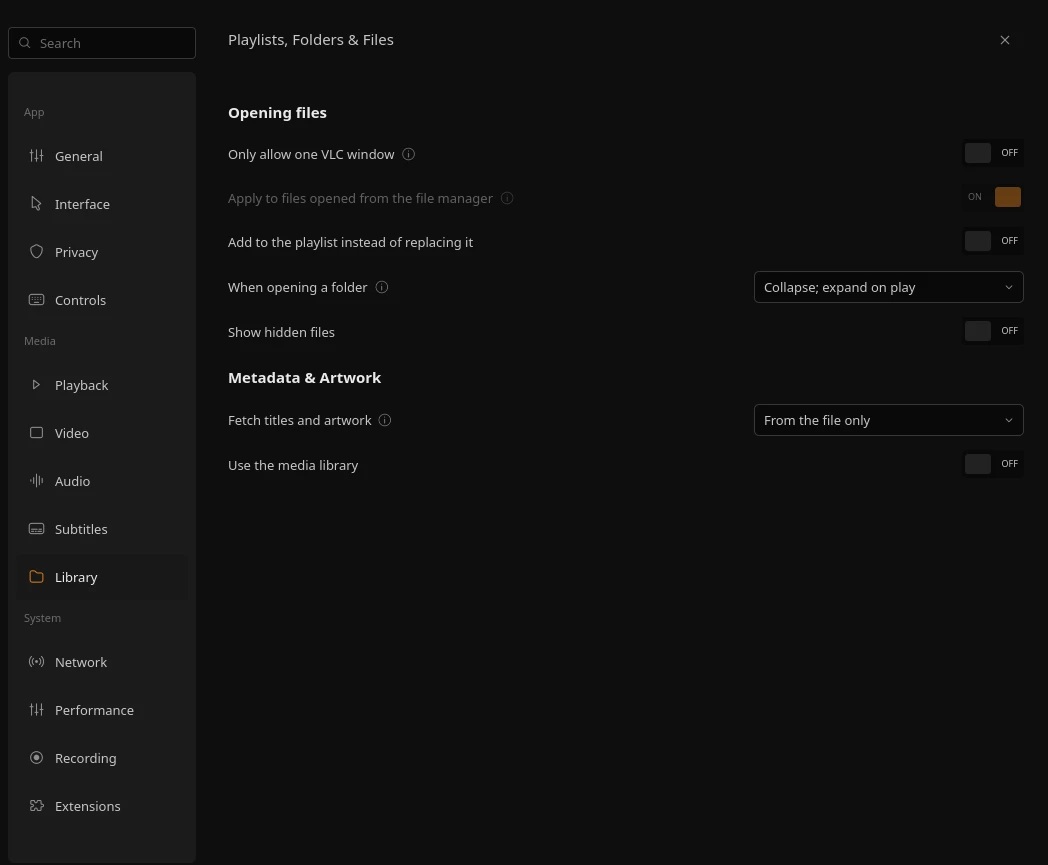
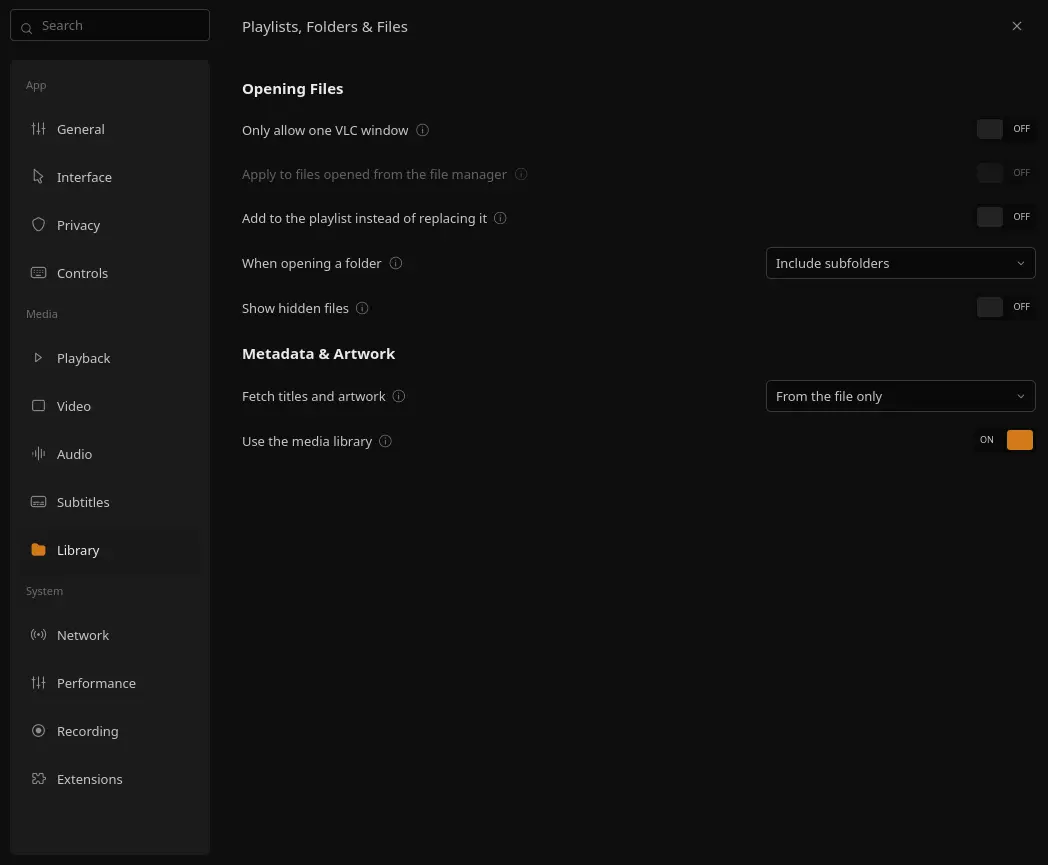
fix: match library preferences to Figma

diff --git a/qml/SettingsDialog.qml b/qml/SettingsDialog.qml
@@ -2021,7 +2021,7 @@ Modal {
                 // ------------------------------------------------ Library
                 Page_ {
                     id_: "library"
-                    SectionTitle { text: "Opening files" }
+                    SectionTitle { text: "Opening Files" }
                     VlcOption { id: libraryOneInstanceOption; option: "one-instance"; label: "Only allow one VLC window"; info: "Open files in the existing VLC window." }
                     VlcOption {
                         option: "one-instance-when-started-from-file"
@@ -2035,7 +2035,7 @@ Modal {
                         info: "Controls how deeply VLC pre-parses items in subfolders. Neo's folder browser and library index still scan recursively."
                         choices: [{ label: "No subfolders", value: "none" },
                                   { label: "Collapse; expand on play", value: "collapse" },
-                                  { label: "Expand all subfolders", value: "expand" }]
+                                  { label: "Include subfolders", value: "expand" }]
                     }
                     VlcOption {
                         option: "show-hiddenfiles"; label: "Show hidden files"

diff --git a/docs/figma-parity.md b/docs/figma-parity.md
@@ -76,7 +76,7 @@ The video canvas background uses Figma charcoal `#2C2B29` in both themes. Video 
 | **Settings - audio** — `3073:15879`, `3180:17398` | Audio output, volume, loudness, language, replay gain and effects. | `SettingsDialog.qml` page `audio`, `SidePanel.qml`, `VlcOption.qml`, `NVerticalSlider.qml`. The page maps enable-audio, output module/device, speaker mode, preferred language, pitch preservation, ReplayGain/preamp/peak protection, S/PDIF and volume step to VLC. Maximum volume is adjustable up to 300% and clamps the player; the two startup-volume choices are stacked like the Figma and update VLC's saved-volume behavior, while the fixed value is editable and applied on first media load. Visible audio fields and selectors use the Figma 320 px control width. Decimal fields remove redundant trailing zeros, keep the preamp's minimum one decimal place, and suppress binary float artifacts without changing VLC's stored values. Normalizer and compressor filters update VLC's `audio-filter` while retaining unrelated filters. Normalizer Target level stays visible when its filter is off; night-mode threshold appears when compression is enabled, and both values map to VLC config. The expanded equalizer now has an enable switch, all VLC 3 presets, editable preamp and ten frequency bands, and the two-pass option. Spatial audio and stereo widening toggle VLC 3's `spatializer` and `stereo_widen` filters; their module options are available under Advanced. VLC exposes only one spatializer mode. Active equalizer values are forwarded to the current audio output while also being saved as VLC preferences. Full multi-device selection still depends on the active output backend exposing devices. PipeWire sink switching and multi-track defaults are verified; native PulseAudio service compatibility remains unverified. Direct ALSA opened/configured HDMI 0, but audible playback on connected hardware remains unverified. **Partial.** | Smoke checks that a visible `VlcOption` refreshes after a VLC config update from another control, plus audio option availability, startup-volume selection and first-media application after relaunch through a temporary silent PipeWire PulseAudio sink, always-visible normalizer target, output/speaker config round trips and filter preservation, Figma decimal formatting with 1.75/1.25 precision and a noisy 12.8 float value, equalizer preset selection on real playback, all ten band values, preamp and two-pass config round trips, all nine spatializer/stereo-widen module option types, decimal module-option round trips, and filter enable/disable. Captures the normal audio page and expanded equalizer at 1048×865 to `docs/screenshots/settings-audio.webp` and `docs/screenshots/settings-audio-effects.webp`. CTest checks volume clamping/mute state.| Both captures were compared with their corresponding states in Figma: `settings-audio.webp` with node `3073:15879` and `settings-audio-effects.webp` with node `3180:17398`. The normal audio capture was refreshed from the successful 2026-10-29 CI smoke artifact; it confirms the two startup-volume choices use the same stacked arrangement as the Figma frame. A focused playback run on this machine enumerated both PipeWire PulseAudio sinks, switched the muted VLC stream to the other sink and confirmed that the selected device updated while playback continued. The fixed 35% startup volume was verified after relaunch through a temporary silent PipeWire PulseAudio sink. Smoke covers audio-track selection and persistence. A direct VLC ALSA probe opened `hw:CARD=PCH,DEV=3`; because that HDMI endpoint has no attached display or speakers, audible ALSA output remains unverified. Native PulseAudio daemon compatibility is not covered by this PipeWire host. |
 | **Settings - subtitles** — `3180:17989`, `6536:13908` | Subtitle enablement, language and encoding, file matching, font, relative/pixel sizing, text color/opacity, outline and shadow. | `SettingsDialog.qml` page `subtitles` follows the Figma sections for tracks/languages and appearance. The preference card uses the Figma's 14 px horizontal and 8/16 px vertical frame insets, 14 px corner radius and dark translucent surface. Navigation and setting fields align to the reference frame width. `VlcOption.qml` maps hex color fields, opacity sliders, bold, outline thickness, shadow and size mode to actual VLC config values. Switching between relative and pixel sizes retains the last pixel value in app settings. The encoding menu now includes all choices reported by the installed VLC build, including `Shift_JIS` and `Windows-1258`. Advanced VLC background and shadow controls remain available. The OpenSubtitles API-key section follows the Figma-matched Appearance controls, preserving their order and visible area; the compact preferences window scrolls its category navigation and stacks the key controls to avoid overlap. The desktop key field, Save and Remove controls have non-overlapping layout and accessible names. **Implemented.** | Smoke checks frame insets at two window sizes, folder matching, active subtitles, saved timeline style, available subtitle option types, hex color parsing/formatting, relative/pixel switching and restoration, VLC config round trips for encoding, color, bold and opacity, persistence after a VLC relaunch, and captures the subtitles page at the exact 1048×865 Figma frame size; the current comparison image is `docs/screenshots/settings-subtitles.webp`. A separate 720×560 capture verifies the compact layout in [`settings-subtitles-compact.webp`](screenshots/settings-subtitles-compact.webp). The latest cross-distro CI smoke run passed on Arch and Mint, including the API-key geometry assertion. | The refreshed 1048×865 subtitle capture is checked against both nodes `6536:13908` and `3180:17989`; the full Appearance section now occupies the Figma-matched position before the additional OpenSubtitles key setup. Font, relative sizing, text opacity, outline and shadow rows align. The encoding list was compared with `vlc --longhelp --advanced` on the installed VLC build and updated to all 43 reported choices. The 720×560 capture confirms the stacked API-key controls and compact frame; category navigation and settings content use separate scroll areas. The custom OpenSubtitles key editor is not present in this Figma frame; its section follows the Figma content and is covered by an explicit order assertion. It uses the standard settings-field alignment, a primary Save key action below the field and a secondary Remove key action; desktop and compact geometry are covered by focused checks. |
 | **Settings - controls** — `6536:14482` | Keyboard shortcut discovery/editing, skip amounts, mouse and remote behavior. | `SettingsDialog.qml` page `controls`, `ShortcutsDialog.qml`, `Main.qml`, `NeoTheme.qml`. The page follows the Figma grouping, including reset and edit actions. It maps Figma's vertical/horizontal scroll, reverse direction, four skip amounts and web-remote enable/port to VLC options. Skip values use 320 px fields and show seconds units; the edit/reset buttons and mouse/scroll selectors use the same Figma control width. Keyboard seek steps read VLC's configured jump sizes; video click and double-click actions have saved choices. Neo's displayed shortcuts can be reassigned with conflict rejection, persist across launches, run their mapped action and reset to defaults. The dialog includes all 111 local and all 111 global VLC 3 core hotkey options and restores their values captured at the first opening; it scrolls and switches to one column in narrow windows. The Web remote switch enables VLC's HTTP interface through `extraintf`; VLC loads it after restart. **Partial.** | Smoke verifies available VLC options and round trips, configured jump sizes, Figma field widths and skip units, captures both the controls page and shortcut editor, assigns Neo, local VLC and global VLC shortcuts, checks their persistence/reset behavior, rejects conflicts, and covers keyboard seeking and popup dismissal. VLC Neo saved `extraintf`, HTTP host, port and password through its config API in an isolated profile. A second VLC launch with no HTTP command-line flags served the remote page; the configured password returned HTML and a request without credentials returned HTTP 401.| The saved [`settings-controls.webp`](screenshots/settings-controls.webp) is cropped from the actual SettingsDialog at exactly 1048×865 (window 1076×889, dialog origin 14×8), then compared with Figma node `6536:14482`; category alignment, section spacing, control widths and placement match. X11 `XF86AudioPlay`, `XF86AudioPause` and `XF86AudioNext` events were sent to the focused VLC Neo window; matching Qt key-event checks cover Previous, Stop and toggle behavior. The remote page and password behavior were checked locally. An X11 run under Xvfb/Metacity delivered real vertical and horizontal wheel events to the player: Seek moved by the configured 3-second step, reversed mode moved backward by 3 seconds, and volume stayed unchanged. The same run verified video click toggles playback and double-click enters and exits fullscreen. A Ctrl+wheel X11 run confirmed those events reach VLC's configured subtitle-size hotkeys (100→110→100); unmodified wheel behavior remains mapped to Neo's selected scroll mode. All 111 local action labels were checked against this VLC build's hotkey descriptions; the 360° field-of-view labels, one-pixel crop labels, sync-reset label, and repeat label now match the documented actions. Runtime Ctrl+wheel confirms subtitle-scale up/down behavior despite the installed help text describing those two bindings in reverse. Remaining check: verify remote access from another device on the intended network. |
-| **Settings - library** — `6542:15251` | Folder/file opening rules, hidden files, metadata and artwork. | `SettingsDialog.qml` page `library`, `LibraryPanel.qml`, `NeoTheme.qml`. Opening behavior maps to VLC's single-instance, enqueue and recursion options. The file-manager-only option disables and dims itself when single-instance mode is off, matching the Figma dependency while preserving its saved VLC value. VLC 3's `recursive` option sets the preparse depth of child items (`none`: 0, `collapse`: 1, `expand`: unlimited); it does not change Neo's recursively populated folder browser or library index. Hidden files update the folder browser immediately; metadata/artwork lookup maps to VLC's network access setting, shared with Privacy, and media-library access maps to VLC's core option. The setting description distinguishes VLC's online lookup from Neo's local scan, which reads embedded tags and local cover art. Ignored extensions, pinned folders and playlist-tree behavior remain available under Advanced. Pinned folders can be added from the folder sidebar, then opened from the Home library sidebar; that pin control was previously hidden because the panel always set `wide: true`. **Partial.** | Smoke checks the dependent file-manager option's enable/dim state and saved-value preservation, option round trips through the visible controls for all three recursion choices and metadata-network access, then verifies they persist after relaunch. A nested-video fixture two folders deep is indexed and visible in Neo's Videos catalog with each VLC recursion value (`none`, `collapse`, `expand`), confirming VLC's preparse setting does not restrict Neo's library scan. It also checks the Figma page title and hidden-file filtering both off and on; captures the Library preferences page. The folder-pin flow clicks the actual pin control, opens the pinned row from Home, relaunches VLC to verify persistence, and clears the test pin.| Compared refreshed `settings-library.webp` with node `6542:15251` in the authenticated browser: opening-rule order and control placement align, including the dimmed file-manager option when single-instance mode is OFF. Pinned-folder navigation, relaunch persistence, the option dependency and preference-control round trips are verified. VLC 3.0 maps `recursive` to the active item’s preparse depth (`none`: 0, `collapse`: 1, `expand`: unlimited) in its [input implementation](https://github.com/videolan/vlc-3.0/blob/master/src/input/input.c). A targeted real-VLC folder playback check produced the same visible nested-media queue for all three values, so it does not prove the internal preparse-depth effect; that behavior remains open. Neo's independent library scan finds the same nested video under every setting. Live VLC metadata/artwork lookup during playback also remains open; Neo's local library intentionally uses embedded tags and local cover art. |
+| **Settings - library** — `6542:15251` | Folder/file opening rules, hidden files, metadata and artwork. | `SettingsDialog.qml` page `library`, `LibraryPanel.qml`, `NeoTheme.qml`. Opening behavior maps to VLC's single-instance, enqueue and recursion options. The file-manager-only option disables and dims itself when single-instance mode is off, matching the Figma dependency while preserving its saved VLC value. VLC 3's `recursive` option sets the preparse depth of child items (`none`: 0, `collapse`: 1, `expand`: unlimited); it does not change Neo's recursively populated folder browser or library index. Hidden files update the folder browser immediately; metadata/artwork lookup maps to VLC's network access setting, shared with Privacy, and media-library access maps to VLC's core option. The setting description distinguishes VLC's online lookup from Neo's local scan, which reads embedded tags and local cover art. Ignored extensions, pinned folders and playlist-tree behavior remain available under Advanced. Pinned folders can be added from the folder sidebar, then opened from the Home library sidebar; that pin control was previously hidden because the panel always set `wide: true`. **Partial.** | Smoke checks the dependent file-manager option's enable/dim state and saved-value preservation, option round trips through the visible controls for all three recursion choices and metadata-network access, then verifies they persist after relaunch. A nested-video fixture two folders deep is indexed and visible in Neo's Videos catalog with each VLC recursion value (`none`, `collapse`, `expand`), confirming VLC's preparse setting does not restrict Neo's library scan. It also checks the Figma page title and hidden-file filtering both off and on. The Library capture sets the visible options to the Figma state (all folder-opening switches OFF, “Include subfolders”, local-only metadata and media library ON) and asserts the exact “Opening Files” and “Include subfolders” labels. The folder-pin flow clicks the actual pin control, opens the pinned row from Home, relaunches VLC to verify persistence, and clears the test pin.| Compared refreshed `settings-library.webp` with node `6542:15251` in the authenticated browser at 1048×865: opening-rule order, values and control placement align, including the dimmed OFF file-manager option when single-instance mode is OFF. The “Opening Files” heading and “Include subfolders” choice match Figma exactly. Pinned-folder navigation, relaunch persistence, the option dependency and preference-control round trips are verified. VLC 3.0 maps `recursive` to the active item’s preparse depth (`none`: 0, `collapse`: 1, `expand`: unlimited) in its [input implementation](https://github.com/videolan/vlc-3.0/blob/master/src/input/input.c). A targeted real-VLC folder playback check produced the same visible nested-media queue for all three values, so it does not prove the internal preparse-depth effect; that behavior remains open. Neo's independent library scan finds the same nested video under every setting. Live VLC metadata/artwork lookup during playback also remains open; Neo's local library intentionally uses embedded tags and local cover art. |
 | **Settings - network** — `6543:15649` | Buffering profiles and per-source caches, proxy credentials, system certificate trust and cipher preference. | `SettingsDialog.qml` page `network`, `VlcOption.qml`. The title and section order match the Figma frame. Normal/latency profiles set VLC's file, disc, network and live caches and immediately refresh the disabled cache fields; Custom enables direct cache editing. On Linux, VLC 3 marks its `http-proxy` config options obsolete; VLC Neo translates the saved HTTP proxy URL and password into the process-local `http_proxy` and `https_proxy` environment variables that VLC consumes. Clearing the field restores the inherited system proxy environment. Certificate trust and cipher preferences remain VLC GnuTLS options. SOCKS, connection timeout, reconnect, MTU and network sync remain under Advanced. **Partial.** | Smoke checks installed option names, buffering profile values and displayed/disabled cache fields, Simple/Advanced visibility, proxy credential and TLS value round trips, and captures the page with the Normal profile selected. A local HTTPS integration test checks rejection of an unknown CA, playback using the configured trust directory, and the actual GnuTLS cipher-priority effect against a TLS 1.2 server limited to AES-128. A local HTTP proxy integration test opens an MP4 through a custom proxy after a runtime preference change, verifies that clearing the preference restores the inherited proxy, and records the absolute URL received by each proxy. A local Basic-auth proxy confirms VLC 3.0.20 retries the 407 challenge with the configured credentials, but VLC then aborts before opening the media with `cannot seek (to offset 0)`. This reproduces with both a correct 206 Content-Range response and a full 200 response; authenticated playback remains open. VLC 3.0.21's [upstream release notes](https://github.com/videolan/vlc/blob/master/NEWS) add HTTP content-range handling under RFC 9110; this may explain the failure, but authentication must be retested on that version before attributing the fix.| The saved [`settings-network.webp`](screenshots/settings-network.webp) is cropped from the actual SettingsDialog at exactly 1048×865 (window 1076×889, dialog origin 14×8) and was compared with node `6543:15649`; custom and inherited proxy playback were verified locally, and the HTTP proxy URL/password now persist across two Neo launches through PlayerStateStore because VLC 3 marks those options obsolete on non-Windows builds ([VLC 3.0 declarations](https://github.com/videolan/vlc-3.0/blob/master/src/libvlc-module.c#L1647-L1655)). A local HTTP/1.0 and HTTP/1.1 Basic-auth proxy both confirm VLC 3.0.20 sends the configured credentials after a 407, then fails before playback with `cannot seek (to offset 0)`; the same happens with 206 range and full 200 responses. The VLC 3.0.21 release notes add HTTP content-range handling, so rerun the authenticated proxy fixture on 3.0.21+ to verify whether it resolves the failure. On 2026-10-21, VLC Neo played the MDN CC0 flower MP4 over HTTPS with system trust enabled. The local fixture separately validates the configured trust directory and cipher-strength setting. |
 | **Settings - performance** — `6571:15958` | Hardware decoding, post-processing, frame dropping, priority and advanced decoder settings. | `SettingsDialog.qml` page `performance`, `VlcOption.qml`. The page follows the Figma Decoding, Smooth Playback and Developer groups. Hardware decoding uses the installed VLC choices; post-processing, H.264 loop-filter skipping and thread count map to VLC. Frame dropping, real-time priority, process priority and plugin-cache rescan are wired. Developer controls expose encoder/decoder preference, clock synchro/jitter/averaging; advanced controls expose decoder tuning and stream-transcode worker settings. **Implemented.** | Smoke checks option availability, Simple/Advanced visibility, config round trips and plugin-cache rescan, and captures the page. It also writes `avcodec-hw=none`, restarts VLC, confirms the value is restored, and plays a video using software decoding.| The 1048×865 capture was visually compared with node `6571:15958`; category order, full-width Advanced Options row and control placement align. A real-VLC relaunch check saves and restores `avcodec-hw=none` and confirms that VLC plays the H.264 fixture with software decoding. |
 | **Settings - recording** — `6571:16429` | Recording destination, casting and stream output options. | `SettingsDialog.qml` page `recording`, `Main.qml`, `VlcTasks`, `StreamDialog.qml`, `Player`, and VLC renderer discovery. Recording folder, native-format preference, Chromecast conversion quality, local stream playback, audio/video/subtitle inclusion and H.264 preset map to options exposed by the installed VLC. The Figma device-discovery switch starts VLC renderer-discovery modules; each discovered device is listed with its Chromecast or DLNA protocol as a small secondary label and is selectable through VLC's playlist renderer API. Advanced transcoding codec/bitrate/frame-rate/sample-rate and manual Chromecast target options are hidden in Simple mode. **Partial.** VLC renderer discovery and selection are connected to VLC. The Cast dialog now treats the selected Chromecast status `Connected` as a successful handoff, as well as active DLNA `Playing`/`Paused` states; a focused real-VLC regression covers these states. Playback to a physical Chromecast remains unverified. | Smoke verifies the settings page against installed VLC option types, Simple/Advanced visibility and value round trips. It also verifies renderer-discovery module availability, start/stop lifecycle, QML device model and cleanup. Recording is toggled both with and without a selected subtitle track; each output is checked for playable H.264/AAC media. In VLC 3.0.20, the recorded MP4 does not retain the subtitle as a separate stream. The stream process passes the Include subtitles setting and either the selected local subtitle file or the selected embedded track ID to VLC, then muxes it as DVB subtitles. Conversion formats and UDP/RTP/HTTP stream outputs are exercised through VLC.| The 1048×865 page capture was visually compared with node `6571:16429`; section order, field widths and the Advanced Options row align. The smoke confirms that VLC records audio/video while a subtitle track is selected; ffprobe confirms H.264/AAC output. The recorder does not retain the subtitle track in its MP4. The stream path forwards the selected external subtitle file or selected embedded subtitle track ID when the VLC Include subtitles preference is enabled; the smoke captures both UDP MPEG-TS outputs and verifies their `dvb_subtitle` streams with ffprobe. Renderer discovery and selection are wired to VLC. A real Hisense DLNA receiver now accepted the session control path through `Playing` and `Stopped`; its visible video output still needs receiver-side confirmation, and Chromecast playback remains unverified. |
